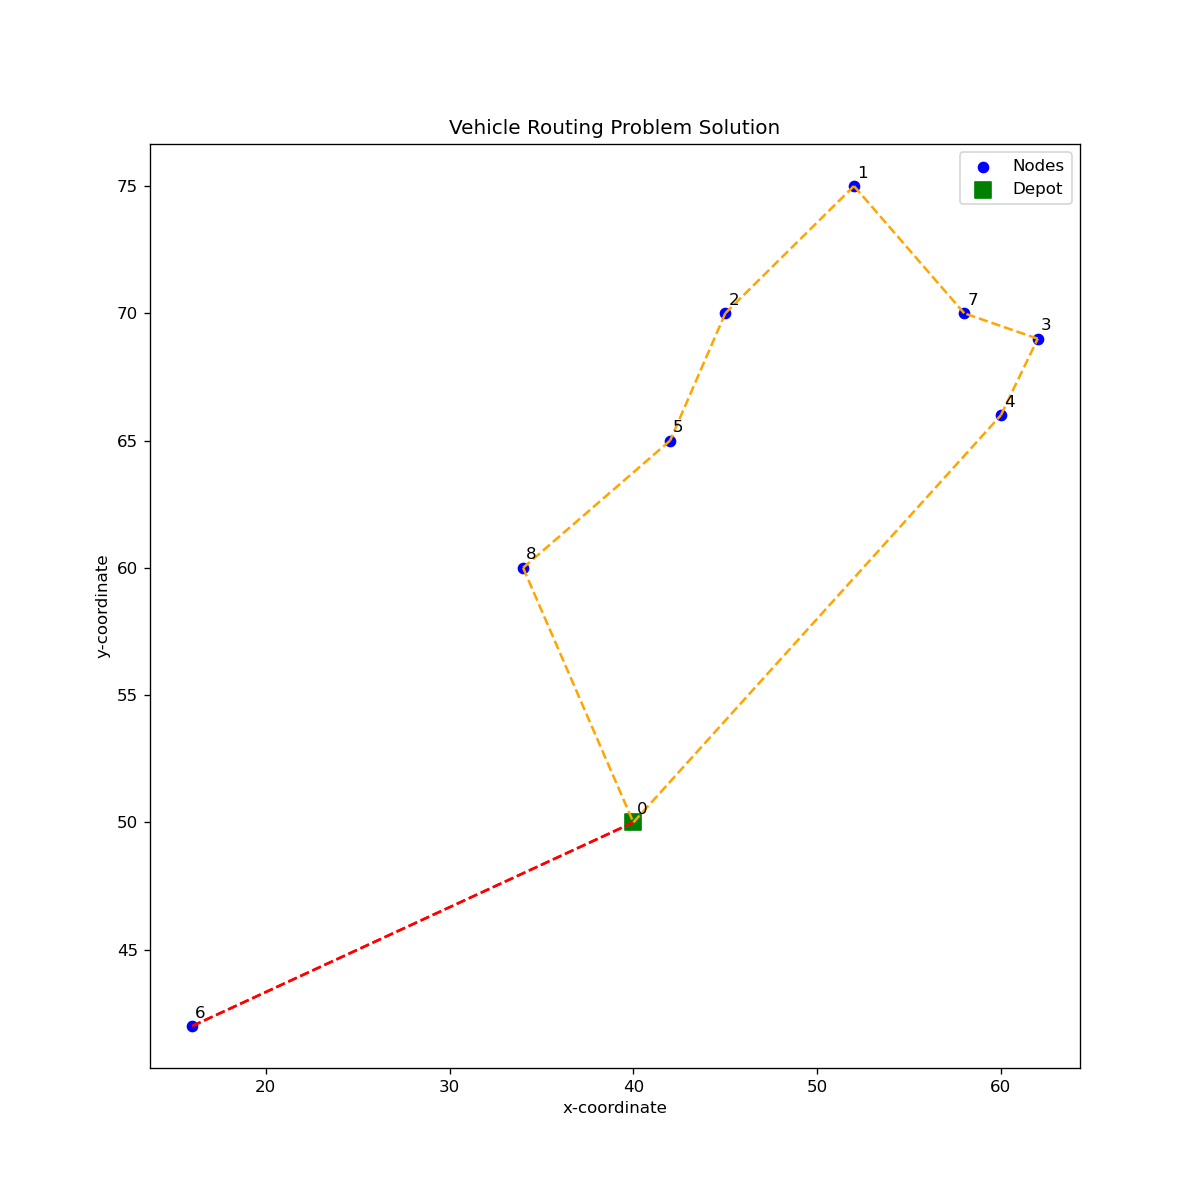
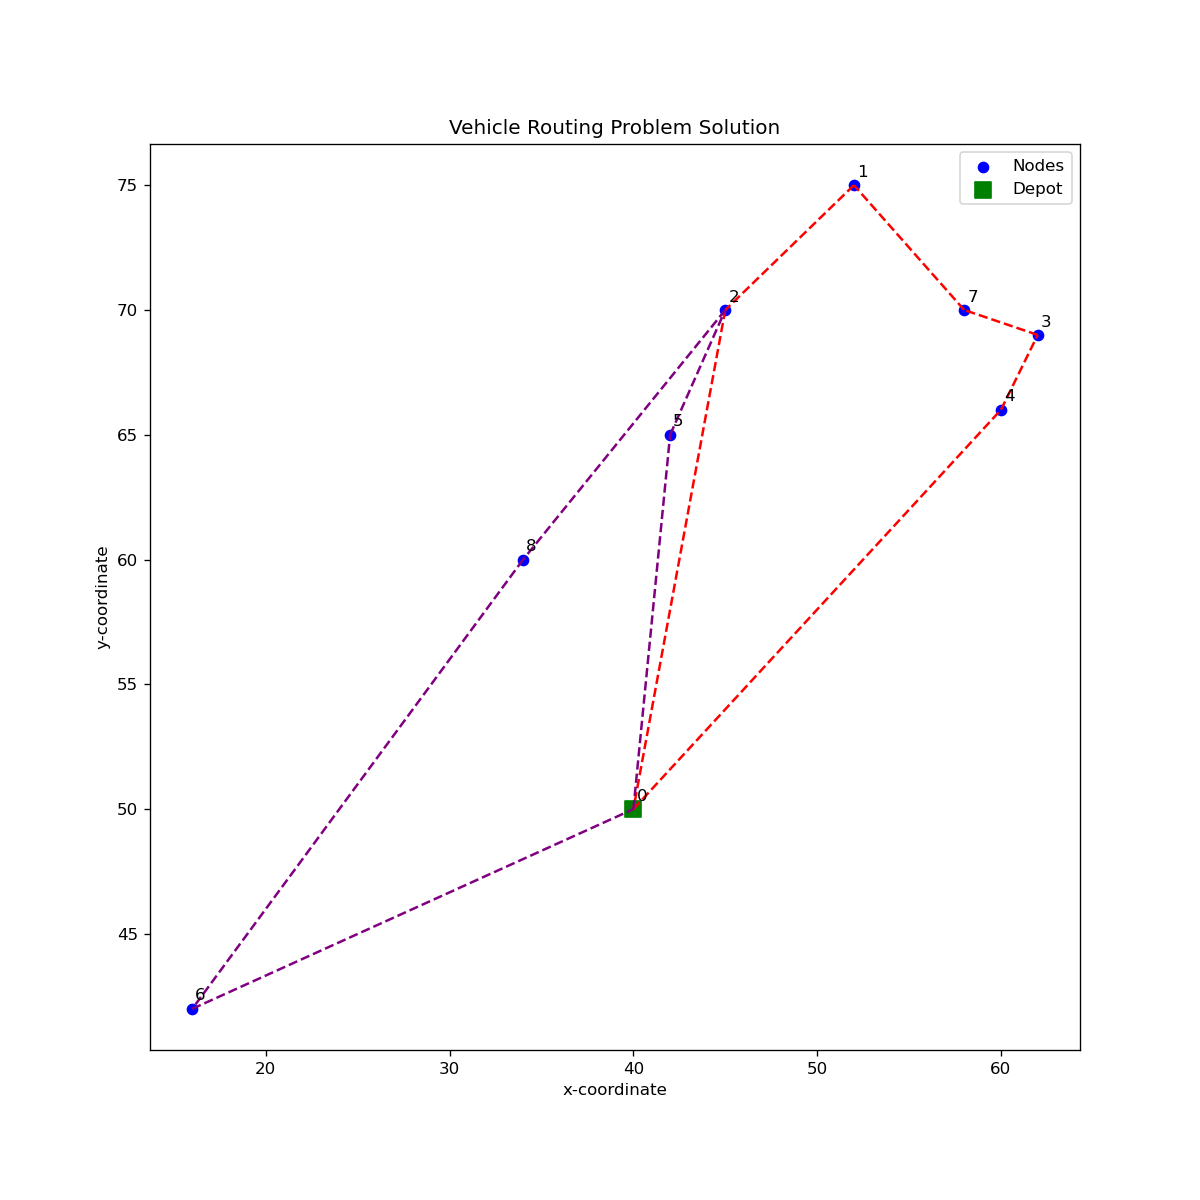
modelletjes lijken nu goed

diff --git a/questionf-g.py b/questionf-g.py
@@ -38,9 +38,9 @@ for i in nodes:
         s[i][j] = math.sqrt((xc[j] - xc[i])**2 + (yc[j] - yc[i])**2) # Store distance between nodes
         
 
-V = range(2) #Number of vehicles
+V = range(3) #Number of vehicles
 
-C = 130 #capacity of each vehicle
+C = 65 #capacity of each vehicle
 
 d = VRP[:,3] #Demand at a stop
 
@@ -115,13 +115,13 @@ for j in N:
 
 #Constraint 3
 #start at depot
-for v in V:
-    m.addConstr(quicksum(b[0,j,v] for j in N[1:]) == 1)
+# for v in V:
+#     m.addConstr(quicksum(b[0,j,v] for j in N[1:]) == 1)
     
-#Constraint  4
-#end at depot
-for v in V:
-    m.addConstr(quicksum(b[i,0,v] for i in N[1:]) == 1)
+# #Constraint  4
+# #end at depot
+# for v in V:
+#     m.addConstr(quicksum(b[i,0,v] for i in N[1:]) == 1)
     
 #Constraint 5
 #Link travel route to time window            
@@ -133,11 +133,11 @@ for v in V:
 
 # Constraint 6
 # Add subtour elimination constraints
-for i in N:
-    for j in N:
-        if i != j and j != 0:  # Exclude depot as it does not need ordering
-            for v in V:
-                m.addConstr(u[i] + 1 - n * (1 - b[i, j, v]) <= u[j])
+# for i in N:
+#     for j in N:
+#         if i != j and j != 0:  # Exclude depot as it does not need ordering
+#             for v in V:
+#                 m.addConstr(u[i] + 1 - n * (1 - b[i, j, v]) <= u[j])
 
 #Constraint 7A
 #Vehicle capacity constraint per point

diff --git a/questiona-c_GOED.py b/questiona-c_GOED.py
@@ -101,13 +101,13 @@ for j in N:
 
 #Constraint 3
 #start at depot
-for v in V:
-    m.addConstr(quicksum(b[0,j,v] for j in N[1:]) == 1)
+# for v in V:
+#     m.addConstr(quicksum(b[0,j,v] for j in N[1:]) == 1)
     
-#Constraint  4
-#end at depot # unncessary!
-for v in V:
-    m.addConstr(quicksum(b[i,0,v] for i in N[1:]) == 1)
+# #Constraint  4
+# #end at depot # unncessary!
+# for v in V:
+#     m.addConstr(quicksum(b[i,0,v] for i in N[1:]) == 1)
     
 #Constraint 5
 for v in V:
@@ -117,11 +117,11 @@ for v in V:
     
 # Constraint 6
 # Add subtour elimination constraints
-for i in N:
-    for j in N:
-        if i != j and j != 0:  # Exclude depot as it does not need ordering
-            for v in V:
-                m.addConstr(u[i] + 1 - n * (1 - b[i, j, v]) <= u[j])
+# for i in N:
+#     for j in N:
+#         if i != j and j != 0:  # Exclude depot as it does not need ordering
+#             for v in V:
+#                 m.addConstr(u[i] + 1 - n * (1 - b[i, j, v]) <= u[j])
 
 
 #Constraint 7
@@ -232,7 +232,7 @@ for v in V:
                 plt.plot([xc[i], xc[j]], [yc[i], yc[j]], linestyle='--', color=colors[v % len(colors)], label=f'Vehicle {v}' if i == j else "")
 
 plt.legend()
-plt.savefig('Figs/questiona-c_TEST.png')
+plt.savefig('Figs/questiona-c.png')
 plt.show()
 
 

diff --git a/questiond-e_GOED.py b/questiond-e_GOED.py
@@ -110,13 +110,13 @@ for j in N:
 
 #Constraint 3
 #start at depot
-for v in V:
-    m.addConstr(quicksum(b[0,j,v] for j in N[1:]) == 1)
+# for v in V:
+#     m.addConstr(quicksum(b[0,j,v] for j in N[1:]) == 1)
     
-#Constraint  4
-#end at depot
-for v in V:
-    m.addConstr(quicksum(b[i,0,v] for i in N[1:]) == 1)
+# #Constraint  4
+# #end at depot
+# for v in V:
+#     m.addConstr(quicksum(b[i,0,v] for i in N[1:]) == 1)
     
 #Constraint 5
 #Link travel route to time window            
@@ -129,11 +129,11 @@ for v in V:
     
 # Constraint 6
 # Add subtour elimination constraints
-for i in N:
-    for j in N:
-        if i != j and j != 0:  # Exclude depot as it does not need ordering
-            for v in V:
-                m.addConstr(u[i] + 1 - n * (1 - b[i, j, v]) <= u[j])
+# for i in N:
+#     for j in N:
+#         if i != j and j != 0:  # Exclude depot as it does not need ordering
+#             for v in V:
+#                 m.addConstr(u[i] + 1 - n * (1 - b[i, j, v]) <= u[j])
 
 #Constraint 7
 #Vehicle capacity constraint
